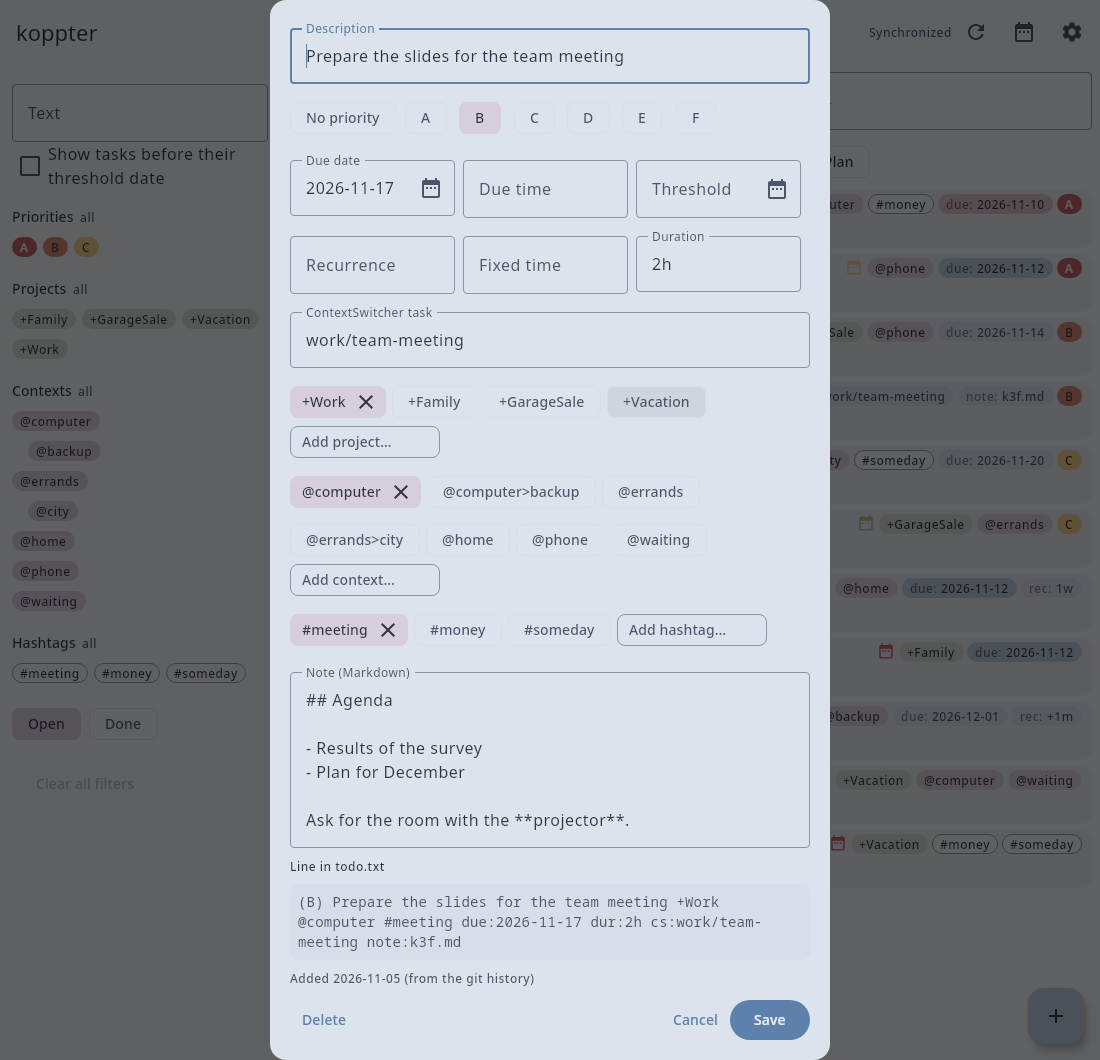
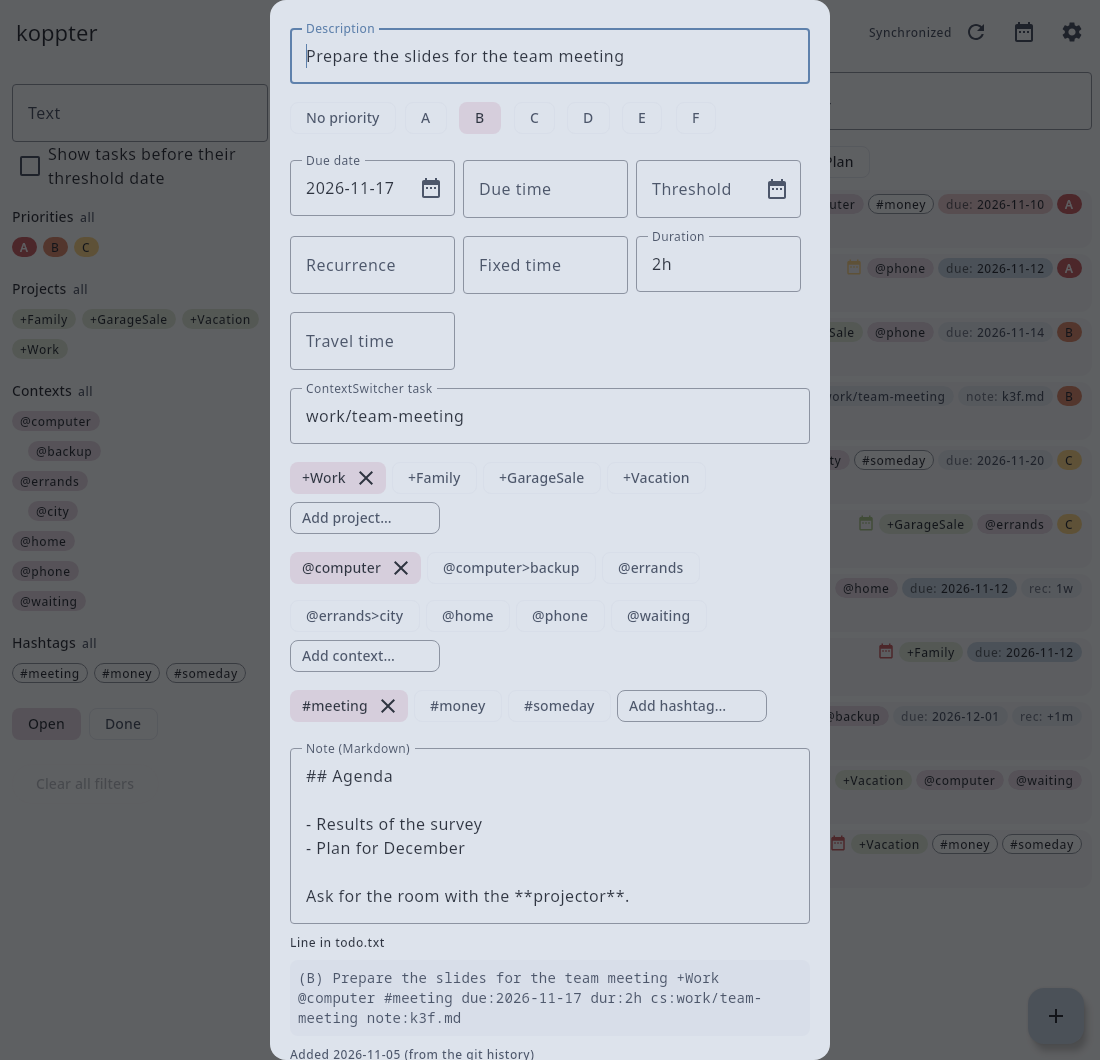
Keep the travel time of a task free in the plan
A task that takes place somewhere else keeps the user away for longer than its duration, and the plan put other tasks directly before and after it. The tag tt: now states the time of the way, which the planner keeps free before and after the task.

diff --git a/core/src/commonMain/kotlin/io/github/koppor/koppter/plan/Planner.kt b/core/src/commonMain/kotlin/io/github/koppor/koppter/plan/Planner.kt
@@ -119,8 +119,15 @@ class PlanConfig(
     }
 }
 
-/** A time in which a task is to be worked on. */
-data class Block(val date: LocalDate, val span: Span, val entry: Entry)
+/**
+ * A time in which a task is to be worked on.
+ *
+ * @param travel whether the time is the way to the task or back from it
+ */
+data class Block(val date: LocalDate, val span: Span, val entry: Entry, val travel: Boolean = false) {
+    /** What the plan shows for the block. */
+    val text: String get() = (if (travel) "Travel: " else "") + CalendarTxt.text(entry.task)
+}
 
 /**
  * @param unplaced the tasks that do not fit before their barrier
@@ -148,13 +155,24 @@ private const val UPCOMING_DAYS = 27
 private fun fixedBlocks(open: List<Entry>, upcoming: List<Pair<LocalDate, Task>>, today: LocalDate, now: Int): List<Block> =
     // What a schedule adds gets an index that no line of the file has.
     (open.map { (it.task.due ?: it.task.threshold ?: today) to it } + upcoming.mapIndexed { index, (date, task) -> date to Entry(-1 - index, task) })
-        .mapNotNull { (date, entry) ->
-            val start = entry.task.at ?: return@mapNotNull null
+        .flatMap { (date, entry) ->
+            val start = entry.task.at ?: return@flatMap emptyList()
             val end = minOf(start + (entry.task.duration ?: DEFAULT_DURATION).inWholeMinutes.toInt(), 24 * 60)
-            Block(date, Span(start, end), entry).takeIf { date > today || (date == today && end > now) }
+            if (date > today || (date == today && end > now)) withTravel(Block(date, Span(start, end), entry)) else emptyList()
         }
         // A task that is in the list already for a later day is not planned a second time for its schedule.
-        .distinctBy { Triple(it.date, it.span, CalendarTxt.text(it.entry.task)) }
+        .distinctBy { Triple(it.date, it.span, it.text) }
+
+/** The block of a task with the times before and after it that the way there and the way back take. */
+// [impl->dsn~travel-time~1]
+private fun withTravel(block: Block): List<Block> {
+    val travel = block.entry.task.travel?.inWholeMinutes?.toInt() ?: return listOf(block)
+    return listOf(
+        block.copy(span = Span(maxOf(block.span.start - travel, 0), block.span.start), travel = true),
+        block,
+        block.copy(span = Span(block.span.end, minOf(block.span.end + travel, 24 * 60)), travel = true),
+    ).filter { it.span.length > 0 }
+}
 
 private fun monday(date: LocalDate) = date.minus(DatePeriod(days = date.dayOfWeek.isoDayNumber - 1))
 
@@ -226,7 +244,8 @@ private class Planning(
     init {
         for (block in fixed) {
             taken.getOrPut(block.date) { mutableListOf() } += block.span
-            use(block, 1)
+            // The way to a task is no time of its project or context.
+            if (!block.travel) use(block, 1)
             if (block.entry in left) blocks.getOrPut(block.entry) { mutableListOf() } += block
         }
         // A task with a time is not moved: nothing of it is left for a free time, also when its time is over.
@@ -262,6 +281,7 @@ private class Planning(
         val limits = config.limitsOf(task)
         val block = config.blockOf(task)
         val map = config.mapOf(task)
+        val travel = task.travel?.inWholeMinutes?.toInt() ?: 0
         var missing = wanted
         var date = from.first
         while (missing > 0 && left.getValue(entry) > 0 && date <= until) {
@@ -276,14 +296,17 @@ private class Planning(
                         (limit.maxWeek ?: Int.MAX_VALUE) - (usedWeek[limit.key to monday(date)] ?: 0),
                     )
                 } ?: Int.MAX_VALUE
-                val shortest = minOf(block, rest)
-                var length = minOf(free.end - start, maxOf(missing, shortest), rest, allowed)
+                // A task with a way to it is not cut: each part would need the way.
+                val shortest = if (travel > 0) rest else minOf(block, rest)
+                var length = minOf(free.end - start - 2 * travel, maxOf(missing, shortest), rest, allowed)
                 // What stays of the task for later is a whole block as well.
                 if (rest - length in 1 until block) length = rest - block
                 if (length < shortest) continue
-                val part = Block(date, Span(start, start + length), entry)
-                blocks.getOrPut(entry) { mutableListOf() } += part
-                taken.getOrPut(date) { mutableListOf() } += part.span
+                val part = Block(date, Span(start + travel, start + travel + length), entry)
+                for (placed in withTravel(part)) {
+                    blocks.getOrPut(entry) { mutableListOf() } += placed
+                    taken.getOrPut(date) { mutableListOf() } += placed.span
+                }
                 count(part, 1)
                 missing -= length
             }
@@ -322,7 +345,7 @@ private class Planning(
                 // plan again without the task if that leaves too much free.
                 blocks.remove(entry).orEmpty().forEach {
                     taken.getValue(it.date) -= it.span
-                    count(it, -1)
+                    if (!it.travel) count(it, -1)
                 }
                 unplaced += entry
             }
@@ -343,6 +366,7 @@ private class Planning(
  * A task is cut into parts if a free time is too short for it or a limit of its project or context allows no more on a day or in a week.
  * A limit with a time for each week gets that time first, in the weeks up to the day on which its tasks would be done without it.
  *
+ * A task with a travel time gets that time before and after its block, and is not cut into parts.
  * A task with a time of the day is not moved: it takes that time, whatever the time maps and the calendars say, and the other tasks are planned around it.
  *
  * @param busy the times that are taken, by day

diff --git a/app/src/commonMain/kotlin/io/github/koppor/koppter/ui/EditDialog.kt b/app/src/commonMain/kotlin/io/github/koppor/koppter/ui/EditDialog.kt
@@ -100,6 +100,7 @@ fun EditDialog(
     var recurrence by remember(base) { mutableStateOf(base.tag(Task.RECURRENCE).orEmpty()) }
     var duration by remember(base) { mutableStateOf(base.tag(Task.DURATION).orEmpty()) }
     var at by remember(base) { mutableStateOf(base.tag(Task.AT).orEmpty()) }
+    var travel by remember(base) { mutableStateOf(base.tag(Task.TRAVEL).orEmpty()) }
     var by by remember(base) { mutableStateOf(base.tag(Task.BY).orEmpty()) }
     var contextSwitcher by remember(base) { mutableStateOf(base.tag(Task.CONTEXT_SWITCHER).orEmpty()) }
     var projects by remember(base) { mutableStateOf(base.projects) }
@@ -112,6 +113,7 @@ fun EditDialog(
     val recurrenceValid = recurrence.isBlank() || Recurrence.parse(recurrence.trim()) != null
     val durationValid = duration.isBlank() || Task.parseDuration(duration.trim()) != null
     val atValid = at.isBlank() || Task.parseTime(at.trim()) != null
+    val travelValid = travel.isBlank() || Task.parseDuration(travel.trim()) != null
     val byValid = by.isBlank() || Task.parseTime(by.trim()) != null
     val result = base
         .edit(description = description, priority = priority, projects = projects, contexts = contexts, hashtags = hashtags)
@@ -121,12 +123,13 @@ fun EditDialog(
         .withTag(Task.RECURRENCE, recurrence.trim())
         .withTag(Task.DURATION, duration.trim())
         .withTag(Task.AT, at.trim())
+        .withTag(Task.TRAVEL, travel.trim())
         // A link pasted into the description counts only while the field is empty.
         .withTag(Task.CONTEXT_SWITCHER, Task.contextSwitcherId(contextSwitcher))
         .let { if (contextSwitcher.isBlank()) it.withContextSwitcherTags() else it }
         // [impl->dsn~notes~1]
         .let { if (originalNote == null) it else it.withTag(Task.NOTE, if (note.isBlank()) null else base.tag(Task.NOTE) ?: newNoteName) }
-    val valid = dueValid && thresholdValid && recurrenceValid && durationValid && atValid && byValid && result.body.isNotBlank()
+    val valid = dueValid && thresholdValid && recurrenceValid && durationValid && atValid && byValid && travelValid && result.body.isNotBlank()
 
     val descriptionFocus = remember { FocusRequester() }
     val keyboard = LocalKeyboard.current
@@ -214,6 +217,16 @@ fun EditDialog(
                         isError = !durationValid,
                         singleLine = true,
                         modifier = field.testTag("edit-duration"),
+                    )
+                    // [impl->dsn~travel-time~1]
+                    OutlinedTextField(
+                        value = travel,
+                        onValueChange = { travel = it },
+                        label = { Text("Travel time") },
+                        placeholder = { Text("30m") },
+                        isError = !travelValid,
+                        singleLine = true,
+                        modifier = field.testTag("edit-travel"),
                     )
                 }
 

diff --git a/core/src/commonTest/kotlin/io/github/koppor/koppter/plan/PlannerTest.kt b/core/src/commonTest/kotlin/io/github/koppor/koppter/plan/PlannerTest.kt
@@ -59,7 +59,7 @@ class PlannerTest {
     private fun plan(todo: String, config: PlanConfig = PlanConfig(maps), busy: Map<LocalDate, List<Span>> = emptyMap(), now: String = "07:00") =
         plan(TodoFile.parse(todo.trimIndent()).entries, config, busy, today, minutes(now))
 
-    private fun Plan.lines() = blocks.map { "${it.date} ${it.span.start / 60}:${(it.span.start % 60).toString().padStart(2, '0')} ${it.span.length} ${it.entry.task.description}" }
+    private fun Plan.lines() = blocks.map { "${it.date} ${it.span.start / 60}:${(it.span.start % 60).toString().padStart(2, '0')} ${it.span.length} ${if (it.travel) "Travel: " else ""}${it.entry.task.description}" }
 
     // [utest->dsn~planner~1]
     @Test
@@ -277,6 +277,39 @@ class PlannerTest {
         assertEquals(emptyList(), plan.unplaced)
         assertEquals(null, Task.parse("Lunch at:25:00").at)
         assertEquals(null, Task.parse("Lunch at:noon").at)
+    }
+
+    // [utest->dsn~travel-time~1]
+    @Test
+    fun theWayToATaskAndBackIsKeptFreeBeforeAndAfterItAndTheTaskIsNotCut() {
+        val plan = plan(
+            """
+            (A) Fetch the parcel @errands dur:30m tt:20m
+            (B) Write the report dur:4h
+            Dentist at:15:00 dur:1h tt:30m
+            Visit the archive dur:5h tt:1h
+            """,
+        )
+        assertEquals(
+            listOf(
+                "2026-11-12 8:00 20 Travel: Fetch the parcel",
+                "2026-11-12 8:20 30 Fetch the parcel",
+                "2026-11-12 8:50 20 Travel: Fetch the parcel",
+                "2026-11-12 9:10 170 Write the report",
+                // The report ends before the way to the dentist.
+                "2026-11-12 13:00 70 Write the report",
+                "2026-11-12 14:30 30 Travel: Dentist",
+                "2026-11-12 15:00 60 Dentist",
+                "2026-11-12 16:00 30 Travel: Dentist",
+            ),
+            plan.lines(),
+        )
+        // Seven hours in one piece are free on no day.
+        assertEquals(listOf("Visit the archive"), plan.unplaced.map { it.task.description })
+        assertEquals(
+            "2026-11-12 w46 Thu  08:00-08:20 Travel: Fetch the parcel @errands. 08:20-08:50 Fetch the parcel @errands. 08:50-09:10 Travel: Fetch the parcel @errands. 09:10-12:00 Write the report",
+            CalendarTxt.write("", plan.blocks, today).substringBefore(". 13:00"),
+        )
     }
 
     // [utest->dsn~dependencies~1]

diff --git a/core/src/commonMain/kotlin/io/github/koppor/koppter/todotxt/Task.kt b/core/src/commonMain/kotlin/io/github/koppor/koppter/todotxt/Task.kt
@@ -68,6 +68,10 @@ data class Task(
     // [impl->dsn~fixed-time~1]
     val at: Int? get() = tag(AT)?.let(::parseTime)
 
+    /** The time that the way to the task takes, and the way back as well. */
+    // [impl->dsn~travel-time~1]
+    val travel: Duration? get() = tag(TRAVEL)?.let(::parseDuration)
+
     /** The minutes of the due date by which the task is due, for a task that is due at a time of that day. */
     // [impl->dsn~due-time~1]
     val by: Int? get() = tag(BY)?.let(::parseTime)
@@ -190,6 +194,7 @@ data class Task(
         const val DURATION = "dur"
         const val AT = "at"
         const val BY = "by"
+        const val TRAVEL = "tt"
 
         /** As topydo writes dependencies: a task with [ID] waits for the tasks whose [PARENT] has the same value. */
         const val ID = "id"

diff --git a/app/src/desktopTest/kotlin/io/github/koppor/koppter/ui/AppTest.kt b/app/src/desktopTest/kotlin/io/github/koppor/koppter/ui/AppTest.kt
@@ -201,6 +201,18 @@ class AppTest {
         assertEquals("(B) Post the signs +GarageSale custom:kept", storage.text.lines()[1])
     }
 
+    // [utest->dsn~travel-time~1]
+    @Test
+    fun theDialogSetsTheTravelTime() = runComposeUiTest {
+        start()
+        openTask("Post signs")
+        onNodeWithTag("edit-travel").performScrollTo().performTextInput("far")
+        onNodeWithTag("edit-save").performScrollTo().assertIsNotEnabled()
+        onNodeWithTag("edit-travel").performScrollTo().performTextReplacement("30m")
+        onNodeWithTag("edit-save").performScrollTo().performClick()
+        assertEquals("Post signs +GarageSale tt:30m", storage.text.lines()[1])
+    }
+
     // [utest->dsn~due-time~1]
     @Test
     fun theDialogSetsTheTimeByWhichATaskIsDue() = runComposeUiTest {

diff --git a/core/src/commonMain/kotlin/io/github/koppor/koppter/plan/CalendarTxt.kt b/core/src/commonMain/kotlin/io/github/koppor/koppter/plan/CalendarTxt.kt
@@ -47,7 +47,7 @@ object CalendarTxt {
         val byDay = blocks.groupBy { it.date }
         val days = generateSequence(today) { it.plus(DatePeriod(days = 1)) }.takeWhile { day -> blocks.any { it.date >= day } }
         val planned = days.map { day ->
-            val events = byDay[day].orEmpty().sortedBy { it.span.start }.joinToString(". ") { "${timesText(it.span)} ${text(it.entry.task)}" }
+            val events = byDay[day].orEmpty().sortedBy { it.span.start }.joinToString(". ") { "${timesText(it.span)} ${it.text}" }
             "$day w${week(day).toString().padStart(2, '0')} ${WEEKDAYS[day.dayOfWeek.isoDayNumber - 1]}  $events".trimEnd()
         }
         return (kept + planned).joinToString("\n", postfix = "\n")

diff --git a/app/src/commonMain/kotlin/io/github/koppor/koppter/ui/TodoController.kt b/app/src/commonMain/kotlin/io/github/koppor/koppter/ui/TodoController.kt
@@ -287,7 +287,7 @@ class TodoController(
             storage.write(file.serialize(), "Update the plan")
             loadedVersion = storage.version()
             // By the text, as each day of a schedule is a task of its own.
-            val tasks = plan.blocks.map { CalendarTxt.text(it.entry.task) }.distinct().size
+            val tasks = plan.blocks.filterNot { it.travel }.map { it.text }.distinct().size
             result = PlanResult(
                 if (plan.blocks.isEmpty()) "Nothing was planned." else "Planned $tasks tasks until ${plan.blocks.last().date}.",
                 problems + planConfig.problems + plan.problems,

diff --git a/core/src/commonMain/kotlin/io/github/koppor/koppter/plan/Ics.kt b/core/src/commonMain/kotlin/io/github/koppor/koppter/plan/Ics.kt
@@ -21,7 +21,7 @@ object Ics {
         line("VERSION:2.0")
         line("PRODID:-//koppter//plan//EN")
         for (block in blocks) {
-            val text = CalendarTxt.text(block.entry.task)
+            val text = block.text
             val day = block.date.toString().replace("-", "")
             line("BEGIN:VEVENT")
             // The same block has the same id in every export, so that a calendar that knows the id replaces the event.

diff --git a/README.md b/README.md
@@ -133,6 +133,7 @@ The application understands the following extensions, which other todo.txt tools
 | `dur:1h30m` | The time the task is expected to take, in hours and minutes | Field *Duration* in the edit dialog, or typed into the task. [Planning](#planning) gives the task that much time ([decision 0018](docs/decisions/0018-tag-for-the-duration-of-a-task.md)). |
 | `by:14:00` | The time of the due date by which the task has to be done | Field *Due time* in the edit dialog, or typed into the task next to `due:`. Among the tasks of a day, the earlier time comes first, and the icon of the [plan](#planning) is red if the task is planned to end later ([decision 0022](docs/decisions/0022-tag-for-the-time-by-which-a-task-is-due.md)). |
 | `at:12:00` | The time of the day at which the task takes place | Field *Fixed time* in the edit dialog, or typed into the task. [Planning](#fixed-times) gives the task that time and plans the others around it ([decision 0021](docs/decisions/0021-tag-for-the-fixed-time-of-a-task.md)). |
+| `tt:30m` | The time that the way to the task takes, and the way back as well | Field *Travel time* in the edit dialog, or typed into the task. [Planning](#travel-time) keeps that time free before and after the task ([decision 0023](docs/decisions/0023-tag-for-the-travel-time-of-a-task.md)). |
 | `id:1`, `p:1` | The task with `id:1` waits for the tasks with `p:1`, as topydo writes dependencies | Typed into the task. [Planning](#planning) gives the task its times after those it waits for ([decision 0020](docs/decisions/0020-dependencies-with-the-tags-of-topydo.md)). |
 | `cs:jabref/fix-npe` | The task of [ContextSwitcher](https://github.com/contextswitcher/contextswitcher) that holds the working context | Entered in the field *ContextSwitcher task* of the edit dialog or typed into the task, as the id or as the link that *Copy link* of ContextSwitcher gives, which becomes the tag. A click on the label switches to the task in ContextSwitcher, on a computer where it has registered its links ([decision 0016](docs/decisions/0016-tag-for-the-task-of-contextswitcher.md)). |
 | `pri:A` | The priority a completed task had | Written when a task with a priority is completed, as the format has no priority for completed tasks; reopening the task restores the priority. |
@@ -315,6 +316,19 @@ Use it for what has its time, such as lunch, a training or an appointment, so th
 * A time that is over is not planned any more.
 * The time counts for a budget of the project and the contexts of the task.
 
+### Travel time
+
+A task with the tag `tt:` takes place somewhere else: the plan keeps the stated time free before and after it, for the way there and the way back.
+
+| Line | Planned |
+| --- | --- |
+| `Dentist at:15:00 dur:1h tt:30m due:2026-11-20` | the way from 14:30, the dentist from 15:00 to 16:00, the way back until 16:30 |
+| `Fetch the parcel @errands dur:30m tt:20m` | a free time of 70 minutes: 20 minutes for the way, 30 for the parcel, 20 for the way back |
+
+* The ways are blocks of their own, which the plan shows as `Travel:` followed by the task.
+* A task with a travel time is not cut into parts, so it needs a free time that holds it with both ways.
+* The ways do not count for a budget of the project and the contexts of the task.
+
 ### Agenda and week
 
 *Agenda* above the tasks shows the blocks of today and of the six days after it, each with its task, which is completed and opened there as in the list.
@@ -348,6 +362,7 @@ The application only reads the calendars and writes nothing to them.
 * A due date, with or without a time, does not move a task forward in the plan: the order of the task list decides, and the icon tells when the plan ends too late.
   A higher priority gives the task earlier times.
 * The list marks a task as overdue from the day after its due date on, not from the time by which it was due.
+* The travel time is one flat value per task: two tasks at the same place after each other each get both ways, and a way that is longer in one direction cannot be stated.
 * A task with a fixed time and without a date counts for today as long as it is open: a training of Tuesday that was not completed is planned again on Wednesday.
   Complete or delete it when its day is over.
 * A task with `rec:` and a fixed time takes its time on its current due date only; the later ones follow when it is completed.

diff --git a/docs/decisions/0023-tag-for-the-travel-time-of-a-task.md b/docs/decisions/0023-tag-for-the-travel-time-of-a-task.md
@@ -1,0 +1,54 @@
+---
+status: accepted
+date: 2026-11-13
+decision-makers: Oliver Kopp
+---
+
+# A Tag States the Travel Time of a Task
+
+`adr~travel-time-tag~1`
+
+Needs: dsn
+
+## Context and Problem Statement
+
+A task that takes place somewhere else takes more time than its duration: the way there and the way back.
+The planner is to keep that time free as well, so that nothing is planned directly before an appointment in town.
+How does a todo.txt line state it?
+
+## Considered Options
+
+* A tag `tt:30m` with one time that counts for the way there and for the way back
+* Two tags, one for each way
+* Places on tasks, with the times between them computed or configured
+* The ways as tasks of their own that the task waits for
+
+## Decision Outcome
+
+Chosen option: "A tag `tt:30m` with one time that counts for the way there and for the way back", because one flat value is known when the task is written, is typed quickly, and covers the common case of going somewhere and coming back.
+
+### Consequences
+
+* Good, because the tag has the form of the tag `dur:` and is a plain tag of the todo.txt format, which other programs leave in place.
+* Good, because the duration of the task stays the time of the task itself, for limits and for what a calendar shows.
+* Bad, because two tasks at the same place after each other each get both ways.
+* Bad, because a way that is longer in one direction cannot be stated.
+* Bad, because no other todo.txt program is known to read the tag.
+
+## Pros and Cons of the Options
+
+### Two tags, one for each way
+
+* Good, because a one-way trip and ways of different length can be stated.
+* Bad, because the common case needs the same value twice.
+
+### Places on tasks, with the times between them computed or configured
+
+* Good, because tasks at the same place share their ways, and the order of tasks could save travel.
+* Bad, because it needs places, the times between each pair of them and the place where the day starts, which is more than the question of how long a task keeps the user away.
+
+### The ways as tasks of their own that the task waits for
+
+* Good, because nothing is added to the format.
+* Bad, because one appointment becomes three lines, and the ways show in the task list.
+* Bad, because a dependency states the order, not that the way lies directly before the task.

diff --git a/skills/koppter-tasks/SKILL.md b/skills/koppter-tasks/SKILL.md
@@ -48,6 +48,7 @@ koppter writes tasks in that order, so a line written the same way does not chan
 | `by:14:00` | The time of the due date by which the task has to be done | Only next to `due:`: "the slides have to be ready for the call on Monday at 14:00". |
 | `t:2027-01-10` | The day from which the task is worth looking at | The task is hidden and not planned before. Use it for "not now" and "some day". |
 | `dur:1h30m` | The time the task takes | Without it, the plan assumes half an hour. Give it when the user states it or the task clearly takes longer. |
+| `tt:30m` | The time that the way to the task takes; the way back counts the same | Only when the user states it for a task that takes place somewhere else. The plan keeps it free before and after the task. |
 | `at:14:00` | The time of the day at which the task takes place | Only for what has its time: an appointment, lunch, a training. The plan does not move the task. The day is `due:`, else `t:`, else today. |
 | `#hashtag` | A property shared across areas | `#money`, `#quick`. Starts with a letter. |
 | `id:1`, `p:1` | Order between tasks | The task with `id:1` waits for the tasks with `p:1`. Pick a value that the file does not use yet: `grep -o ' id:[^ ]*' todo.txt`. |

diff --git a/CHANGELOG.md b/CHANGELOG.md
@@ -43,6 +43,7 @@ and this project adheres to [Calendar Versioning](https://calver.org/) with the 
 - A planned block starts on a quarter of an hour after an event of a calendar.
 - Planning leaves out the times of the events of calendars that are named by the address of their iCalendar file, as Outlook and Google Calendar publish it.
 - *Agenda* shows the planned blocks of today and the six days after it with the tasks that are due but not planned for today, and *Week* shows the plan of a week as a calendar.
+- A task states the time that the way to it takes with the tag `tt:30m`; planning keeps that time free before and after the task.
 - The line that the edit dialog shows can be edited as text; the fields follow what is typed.
 - A task states the time of its due date by which it has to be done with the tag `by:14:00`; the task list orders by it, and the state of the plan tells whether the task is done by then.
 - A task states the time of the day at which it takes place with the tag `at:12:00`; planning gives it that time, also on the later days of an entry of `ice_recur.txt`, and plans the other tasks around it.
